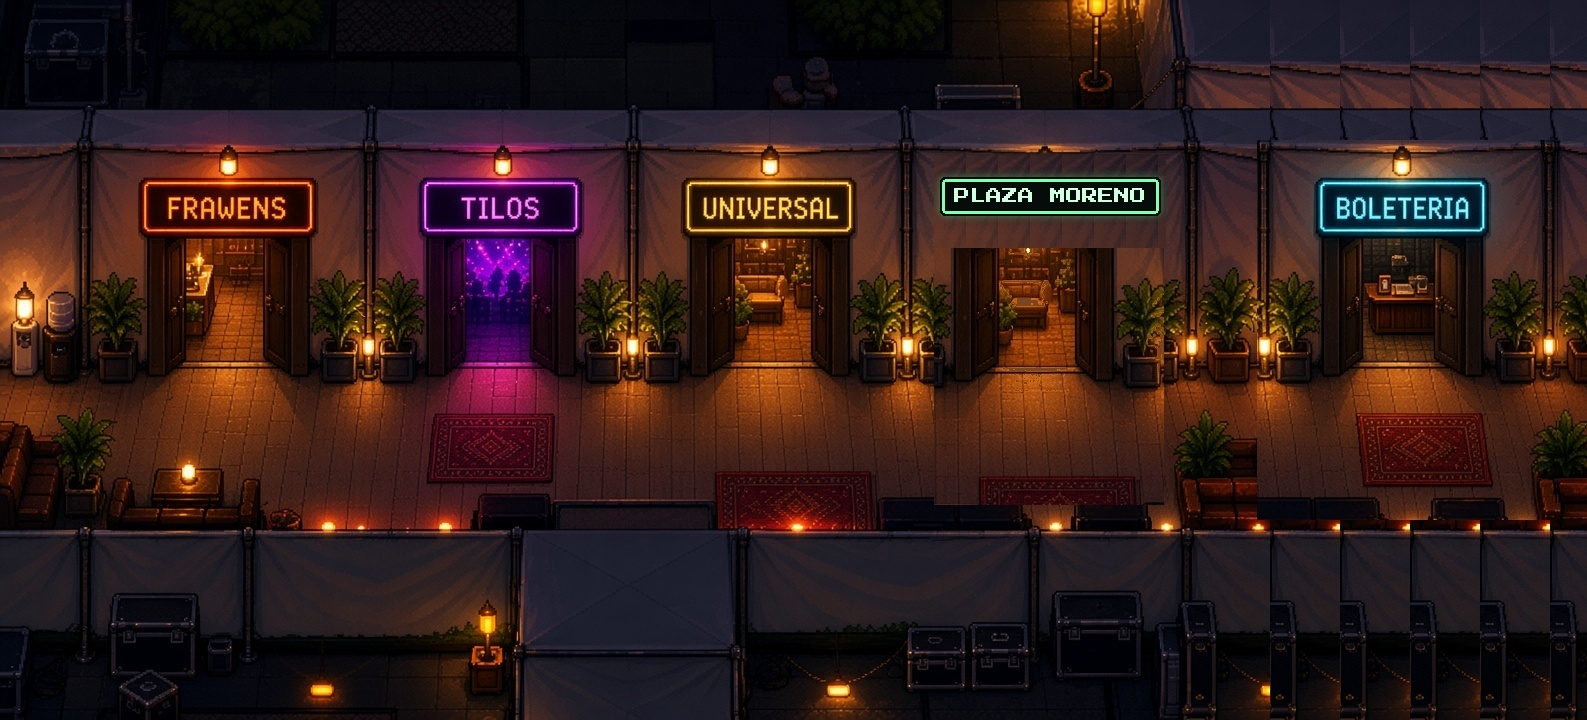
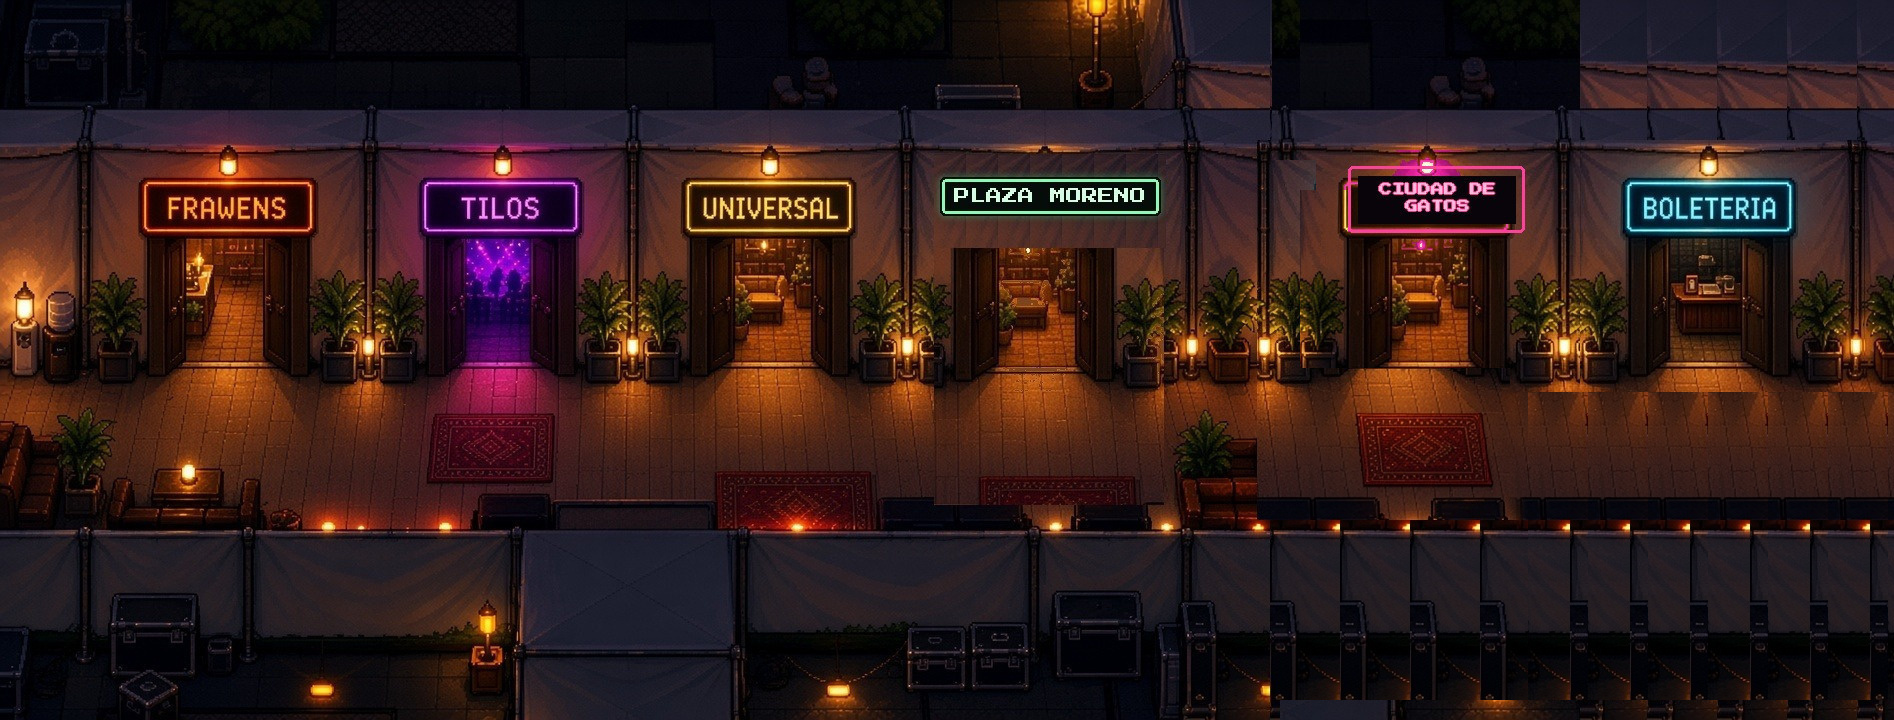
Add Ciudad de Gatos and keep the pasillo floor continuous.
The new door sits before Boletería, and the hallway art no longer cuts the tiles, rug, or sofa beside Plaza Moreno.

diff --git a/js/game.js b/js/game.js
@@ -117,7 +117,7 @@ TITLE_ART.src = "assets/brand/title.jpg?v=51";
 const TITLE_PLAY = { x: 80, y: 160, w: 96, h: 36 };
 
 const PASILLO_ART = new Image();
-PASILLO_ART.src = "assets/places/pasillo/backstage.jpg?v=71";
+PASILLO_ART.src = "assets/places/pasillo/backstage.jpg?v=79";
 
 const FRAWENS_ART = new Image();
 FRAWENS_ART.src = "assets/places/frawens/salon.png?v=74";
@@ -203,6 +203,39 @@ MORENO_COLLISION.addEventListener("load", () => {
   boardCtx.drawImage(MORENO_COLLISION, 0, 0);
   morenoCollisionPixels = boardCtx.getImageData(0, 0, board.width, board.height).data;
 });
+
+const GATOS_ART = new Image();
+GATOS_ART.src = "assets/places/gatos/ciudad.png?v=1";
+
+const GATOS_COLLISION = new Image();
+GATOS_COLLISION.src = "assets/places/gatos/collision-game.png?v=1";
+/** @type {Uint8ClampedArray | null} */
+let gatosCollisionPixels = null;
+GATOS_COLLISION.addEventListener("load", () => {
+  const board = document.createElement("canvas");
+  board.width = GATOS_COLLISION.naturalWidth;
+  board.height = GATOS_COLLISION.naturalHeight;
+  const boardCtx = board.getContext("2d");
+  boardCtx.drawImage(GATOS_COLLISION, 0, 0);
+  gatosCollisionPixels = boardCtx.getImageData(0, 0, board.width, board.height).data;
+});
+
+function gatosSolid(x, y) {
+  const mapW = 18 * TILE;
+  const mapH = 12 * TILE;
+  if (x < 0 || y < 0 || x >= mapW || y >= mapH) {
+    return true;
+  }
+  if (gatosCollisionPixels && GATOS_COLLISION.naturalWidth) {
+    const px = Math.min(GATOS_COLLISION.naturalWidth - 1, Math.max(0, Math.floor(x / mapW * GATOS_COLLISION.naturalWidth)));
+    const py = Math.min(GATOS_COLLISION.naturalHeight - 1, Math.max(0, Math.floor(y / mapH * GATOS_COLLISION.naturalHeight)));
+    return gatosCollisionPixels[(py * GATOS_COLLISION.naturalWidth + px) * 4] < 128;
+  }
+  const tx = Math.floor(x / TILE);
+  const ty = Math.floor(y / TILE);
+  const cell = state.map.rows[ty]?.[tx];
+  return !cell || cell === "#";
+}
 
 function morenoSolid(x, y) {
   const mapW = 110 * TILE;
@@ -338,6 +371,9 @@ function solidAt(map, x, y) {
   }
   if (map.id === "moreno") {
     return morenoSolid(x, y);
+  }
+  if (map.id === "gatos") {
+    return gatosSolid(x, y);
   }
   const tx = Math.floor(x / TILE);
   const ty = Math.floor(y / TILE);
@@ -807,6 +843,10 @@ function drawUniversal() {
   drawVenueArt(UNIVERSAL_ART, "#2a2e34");
 }
 
+function drawGatos() {
+  drawVenueArt(GATOS_ART, "#3a2a22");
+}
+
 function drawMoreno() {
   const mapW = state.map.rows[0].length * TILE;
   const mapH = state.map.rows.length * TILE;
@@ -838,6 +878,10 @@ function drawFloorAndWalls(map) {
   }
   if (map.id === "moreno") {
     drawMoreno();
+    return;
+  }
+  if (map.id === "gatos") {
+    drawGatos();
     return;
   }
   if (map.id === "tilos") {
@@ -1107,6 +1151,24 @@ function drawDoors(map) {
     }
     return;
   }
+  if (map.id === "gatos") {
+    if (map.exits.length) {
+      let x = 0;
+      let y = 0;
+      for (const exit of map.exits) {
+        const point = tileCenter(exit);
+        x += point.x;
+        y += point.y;
+      }
+      x /= map.exits.length;
+      y /= map.exits.length;
+      ctx.fillStyle = "#1a120e";
+      ctx.fillRect(x - 7, y - 7, 14, 14);
+      ctx.fillStyle = "#e6c36a";
+      ctx.fillRect(x - 5, y - 5, 10, 10);
+    }
+    return;
+  }
   if (map.id === "pasillo" || map.id === "frawens" || map.id === "universal") {
     if (map.id === "frawens" || map.id === "universal") {
       for (const exit of map.exits) {
@@ -1308,7 +1370,8 @@ function drawPeople(map) {
       map.id === "tilos" ||
       map.id === "pasillo" ||
       map.id === "universal" ||
-      map.id === "moreno"
+      map.id === "moreno" ||
+      map.id === "gatos"
     ) {
       continue;
     }

diff --git a/js/data.js b/js/data.js
@@ -142,21 +142,32 @@ function rowsOf(rows) {
   return rows;
 }
 
+function blankRows(width, height) {
+  const wall = "#".repeat(width);
+  const open = `#${".".repeat(width - 2)}#`;
+  const rows = [wall];
+  for (let y = 1; y < height - 1; y += 1) {
+    rows.push(open);
+  }
+  rows.push(wall);
+  return rowsOf(rows);
+}
+
 const PASILLO_ROWS = rowsOf([
-  "###############################",
-  "###############################",
-  "###############################",
-  "###############################",
-  "###############################",
-  "###############################",
-  "####..###..###..###...####bbb##",
-  "##........................bbb##",
-  "##........................bbb##",
-  "##.....................##......",
-  "###############################",
-  "###############################",
-  "###############################",
-  "###############################",
+  "#####################################",
+  "#####################################",
+  "#####################################",
+  "#####################################",
+  "#####################################",
+  "#####################################",
+  "####..###..###..###...#####.####bbb##",
+  "##..............................bbb##",
+  "##..............................bbb##",
+  "##.....................##............",
+  "#####################################",
+  "#####################################",
+  "#####################################",
+  "#####################################",
 ]);
 
 const ROOM_ROWS = rowsOf([
@@ -358,6 +369,22 @@ const MAPS = {
         label: "",
         spawnThere: { tx: 54, ty: 29 },
         spawnBack: { tx: 20, ty: 8 },
+      },
+      {
+        tx: 27,
+        ty: 6,
+        to: "gatos",
+        label: "Ciudad de Gatos",
+        spawnThere: { tx: 8, ty: 9 },
+        spawnBack: { tx: 28, ty: 8 },
+      },
+      {
+        tx: 27,
+        ty: 7,
+        to: "gatos",
+        label: "",
+        spawnThere: { tx: 8, ty: 9 },
+        spawnBack: { tx: 28, ty: 8 },
       },
     ],
     counter: true,
@@ -724,6 +751,20 @@ const MAPS = {
     counter: false,
     signs: [],
   },
+  gatos: {
+    id: "gatos",
+    name: "Ciudad de Gatos",
+    rows: blankRows(18, 12),
+    floor: ["#6a5344", "#5c483c"],
+    wall: "#1a120e",
+    spawn: { tx: 8, ty: 9 },
+    exits: [],
+    coin: null,
+    npcs: [],
+    doors: [],
+    counter: false,
+    signs: [],
+  },
 };
 
 window.GAME_DATA = {
@@ -731,4 +772,7 @@ window.GAME_DATA = {
   CHARACTERS,
   MAPS,
 };
+for (let tx = 5; tx <= 9; tx += 1) {
+  MAPS.gatos.exits.push({ tx, ty: 11 });
+}
 })();

diff --git a/index.html b/index.html
@@ -26,7 +26,7 @@
       </div>
     </div>
     <script src="js/config.js?v=72"></script>
-    <script src="js/data.js?v=82"></script>
-    <script src="js/game.js?v=112"></script>
+    <script src="js/data.js?v=87"></script>
+    <script src="js/game.js?v=129"></script>
   </body>
 </html>
